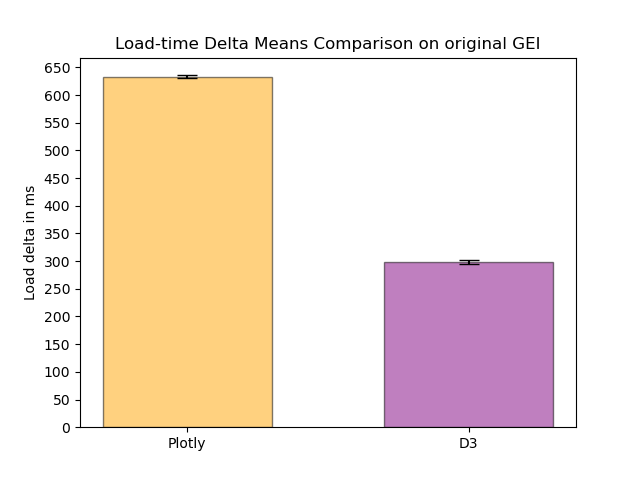
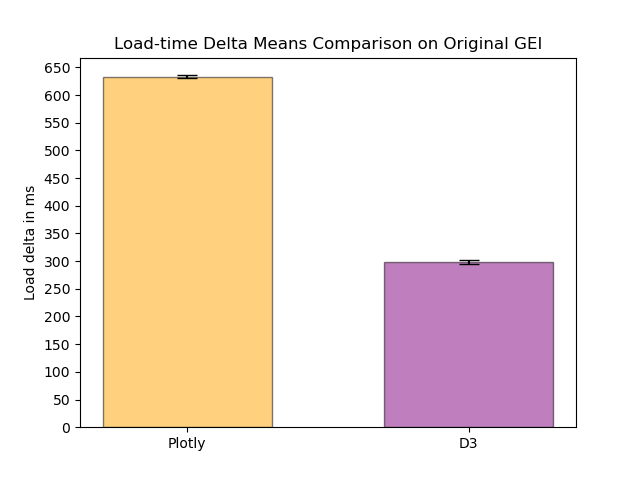
working on visualisations

Changed region(s): [[0.1562, 0.0625, 0.8438, 0.125]]

diff --git a/experimentData/run2-1000/dataScripts/CI.py b/experimentData/run2-1000/dataScripts/CI.py
@@ -68,7 +68,7 @@ plt.bar(barsOrder, barsData, color=colors, edgecolor='black', width=barWidth,
 plt.ylabel('Load delta in ms')
 plt.yticks(range(0, 700, 50))
 plt.xticks(range(2), ['Plotly', 'D3'])
-plt.title('Load-time Delta Means Comparison on original GEI')
+plt.title('Load-time Delta Means Comparison on Original GEI')
 plt.grid(False)
 plt.savefig('../Graphs/loadTimeDeltaOrg.png')
 # plt.show()
